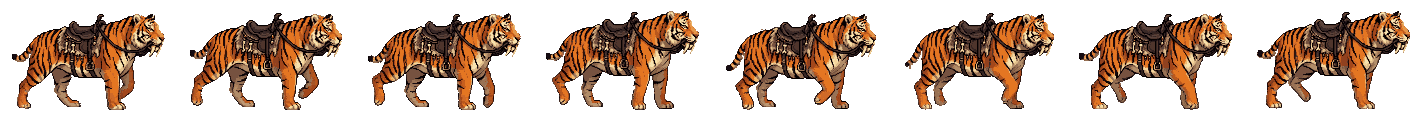
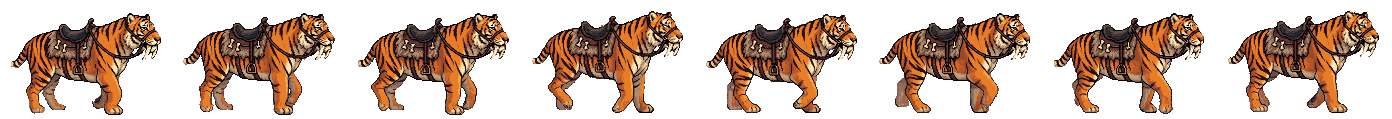
Mounts: the tiger's new walk from version A
Three posed walks of the tiger from version A, its paws crossing; the one
whose body flickers least. Its saddle in the start frame is at 64, 36.

Claude-Session: https://claude.ai/code/session_01EFZUMqpHps3KDRogHBzjf3

diff --git a/DECISIONS.md b/DECISIONS.md
@@ -3000,7 +3000,7 @@ Autor: „243 A / 244 A / 245 A / 246 A / 247 B -> musi wyglądać trochę dosto
 
 Autor: „371 B”, „372 B” i „Problemem są trochę postacie w szatach, bo u nich się to inaczej układają te szaty przy jeździe, ale podejrzewam, że szkoda zachodu i nic się nie udałoby z tym zrobić, wyszłoby tylko gorzej”.
 
-1. **Tygrys szablozębny** to wersja B: pręgowany, z łbem uniesionym, ogonem z ciemnym końcem, siodłem na futrzanej derce z kościanymi ozdobami i uzdą. Obrazek przycięty do konturu jest w `src/client/art/mounts/sabertooth.png`, a pierwsza klatka jego chodu, z miejscem na ruch łap, w `art/references/mounts/sabertooth.png`. Chód robi PixelLab, jak kłus koni (`tools/animate-mounts.mjs`, dla tygrysa krok dużego kota z kołyszącym się ogonem).
+1. **Tygrys szablozębny** to najpierw wersja B, a po uwadze autora o chodzie („tylne łapy w ogóle się nie przecinają, a w chodzie powinny”; „wybierz inną z możliwych opcji tygrysa”) wersja A, która stoi z tylnymi łapami pod biodrem: pręgowany, z długimi kłami, ogonem, siodłem na futrzanej derce z kościanymi ozdobami i uzdą. Obrazek przycięty do konturu jest w `src/client/art/mounts/sabertooth.png`, a pierwsza klatka jego chodu, z miejscem na ruch łap, w `art/references/mounts/sabertooth.png`. Chód robi PixelLab, jak kłus koni (`tools/animate-mounts.mjs`, dla tygrysa krok dużego kota z kołyszącym się ogonem).
 2. **Szaty jeźdźców zostają takie, jak są.** Postacie w długich szatach siedzą w nich tak, jak narysował je Retro Diffusion. Znika tylko druga stopa spod szaty.
 3. **Tło „Obóz nocą” (372 B):** nowa wersja z ogniskiem bliżej środka i namiotem za postacią. Zastępuje pierwszą, z ogniskiem pod postacią. Plik ten sam: `src/client/art/cosmetics/bg-camp.png`.
 
